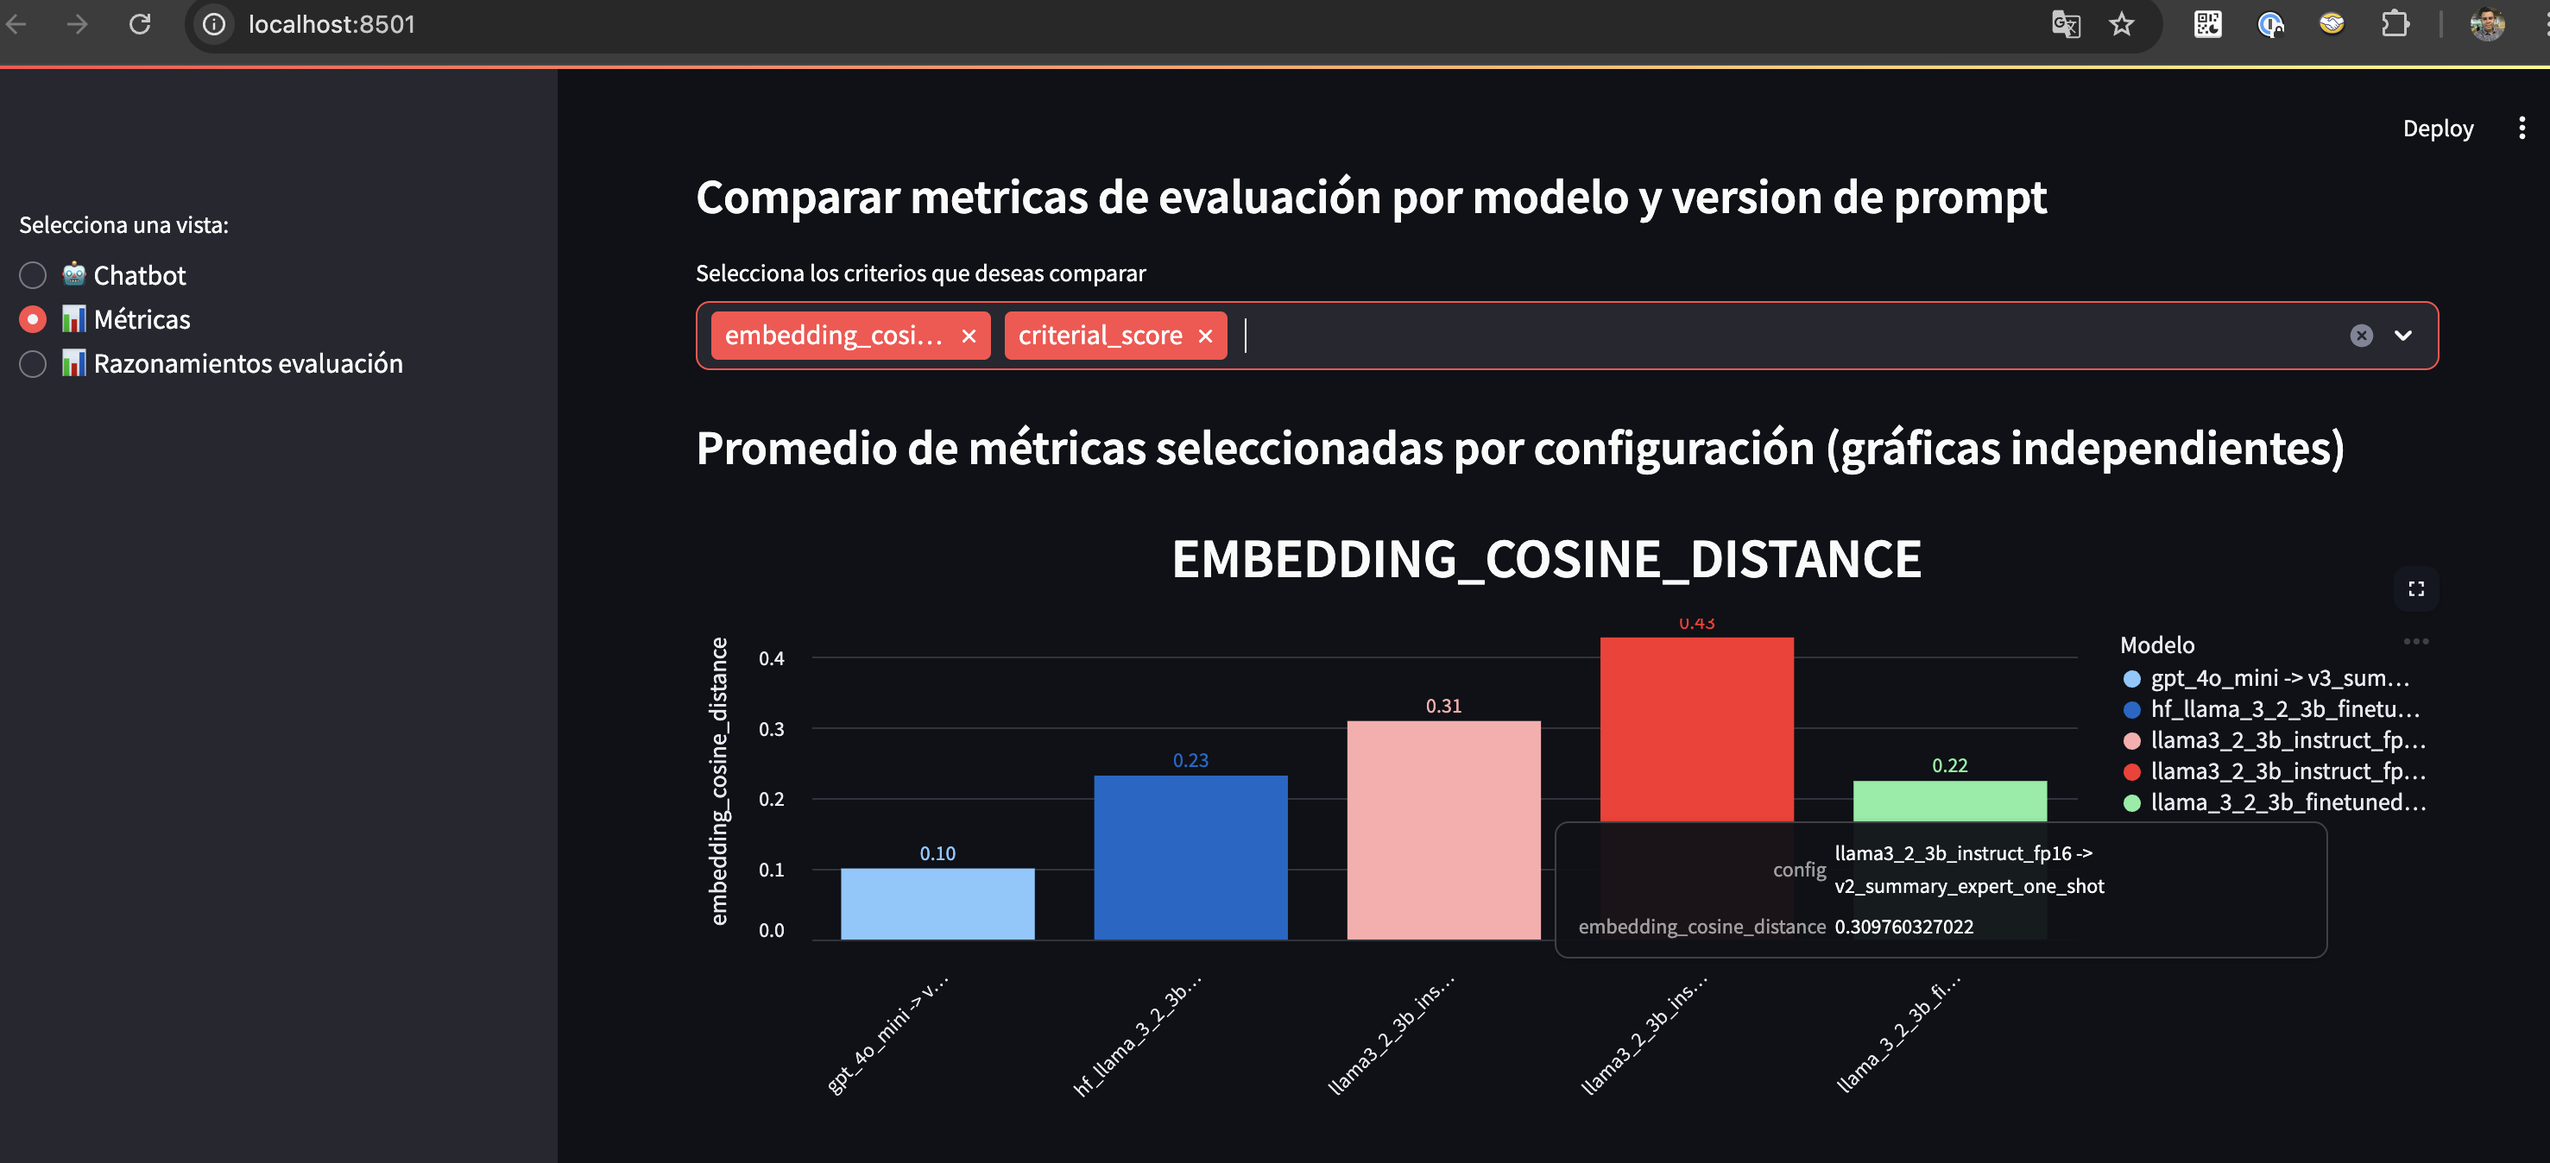
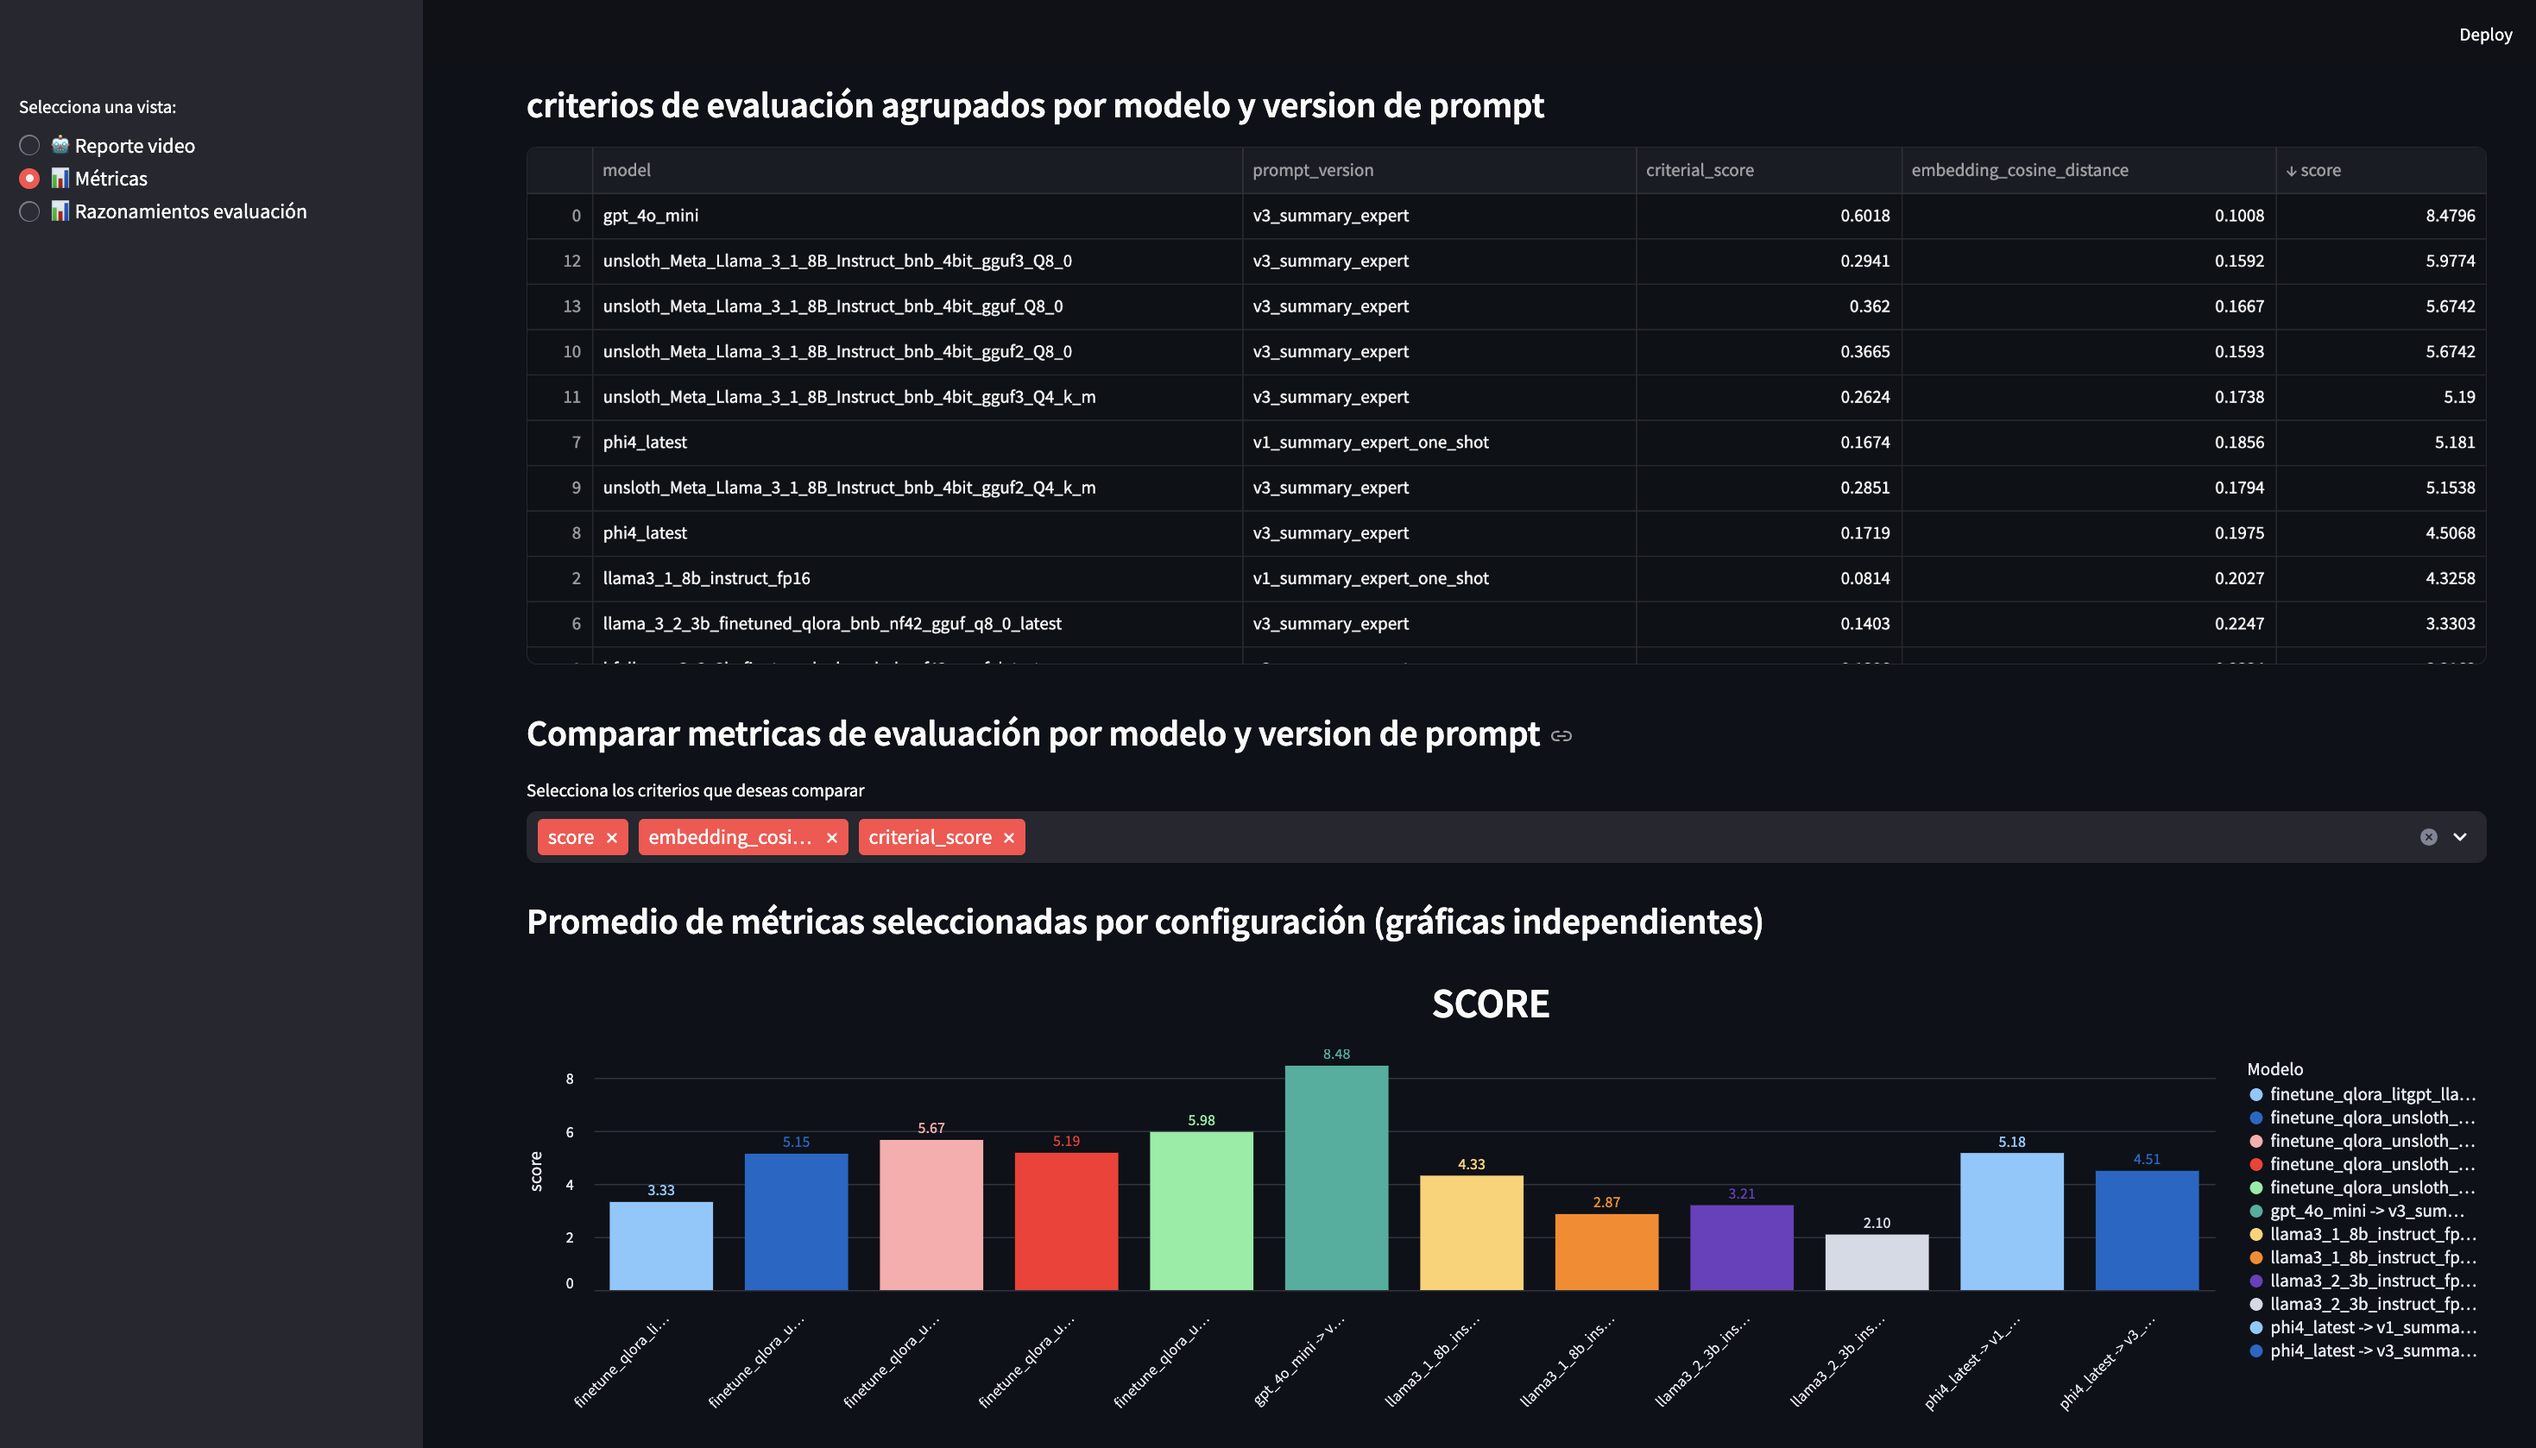
chore: update readme with deployment images

diff --git a/app/main_interface.py b/app/main_interface.py
@@ -145,11 +145,12 @@ if modo == '🤖 Reporte video':
             'phi4:latest',
             'hf.co/AndresR2909/unsloth_Meta-Llama-3.1-8B-Instruct-bnb-4bit_gguf:Q8_0',
             'hf.co/AndresR2909/llama-3.2-3b-finetuned_qlora_bnb_nf4_v2-gguf_q8_0:latest',
+            'hf.co/AndresR2909/unsloth_Meta-Llama-3.1-8B-Instruct-bnb-4bit_gguf_v3:Q8_0',
         ],
     )
     prompt = st.selectbox(
         'Selecciona la versión del prompt:',
-        ['v1_summary_expert', 'v1_summary_expert_one_shot'],
+        ['v3_summary_expert', 'v1_summary_expert_one_shot'],
     )
     # model = 'phi4:latest'
     # prompt = 'v1_summary_expert'
@@ -210,14 +211,40 @@ elif modo == '📊 Métricas':
         }
         data.append(dict_metrics)
 
+
     # Creamos un dataframe con todos los datos
     df = pd.DataFrame(data)
+    sel_models = [
+        'unsloth_Meta_Llama_3_1_8B_Instruct_bnb_4bit_gguf2_Q4_k_m',
+        'phi4_latest',
+        'unsloth_Meta_Llama_3_1_8B_Instruct_bnb_4bit_gguf3_Q4_k_m',
+        'unsloth_Meta_Llama_3_1_8B_Instruct_bnb_4bit_gguf3_Q8_0',
+        'unsloth_Meta_Llama_3_1_8B_Instruct_bnb_4bit_gguf2_Q8_0',
+        'llama3_1_8b_instruct_fp16',
+        'llama3_2_3b_instruct_fp16',
+        'gpt_4o_mini',
+        'llama_3_2_3b_finetuned_qlora_bnb_nf42_gguf_q8_0_latest',
+    ]
+
+    df_sel = df[df['model'].isin(sel_models)]
+
+    # Diccionario de reemplazo de nombres de modelos
+    model_name_map = {
+    'unsloth_Meta_Llama_3_1_8B_Instruct_bnb_4bit_gguf2_Q4_k_m':'finetune_qlora_unsloth_llama_3_1_8B_Instruct_bnb_4bit_v2_Q4_k_m',
+    'unsloth_Meta_Llama_3_1_8B_Instruct_bnb_4bit_gguf3_Q4_k_m':'finetune_qlora_unsloth_llama_3_1_8B_Instruct_bnb_4bit_v3_Q4_k_m',
+    'unsloth_Meta_Llama_3_1_8B_Instruct_bnb_4bit_gguf3_Q8_0':'finetune_qlora_unsloth_llama_3_1_8B_Instruct_bnb_4bit_v3_Q8_0',
+    'unsloth_Meta_Llama_3_1_8B_Instruct_bnb_4bit_gguf2_Q8_0':'finetune_qlora_unsloth_llama_3_1_8B_Instruct_bnb_4bit_v2_Q8_0',
+    'llama_3_2_3b_finetuned_qlora_bnb_nf42_gguf_q8_0_latest': 'finetune_qlora_litgpt_llama_3_2_3b_bnb_nf4_v2_q8_0',
+    }
+
+    # Reemplazar en la columna 'model' de df_sel
+    df_sel['model'] = df_sel['model'].replace(model_name_map)
 
     # Datos de test
     st.subheader('Dataset de test')
 
     df_grouped = (
-        df.drop(
+        df_sel.drop(
             columns=[
                 'criterial_score',
                 'embedding_cosine_distance',
@@ -272,7 +299,7 @@ elif modo == '📊 Métricas':
     if selected_metrics:
         # Agrupamos por Prompt y Chunk Size para mostrar promedios
         grouped = (
-            df.groupby(['model', 'prompt_version'])
+            df_sel.groupby(['model', 'prompt_version'])
             .agg({metric: 'mean' for metric in selected_metrics})
             .reset_index()
         )

diff --git a/Readme.md b/Readme.md
@@ -51,7 +51,7 @@ notebooks/
 requirements.txt
 Readme.md
 ...
-
+```
 ---
 
 ## Flujo de Trabajo
@@ -137,14 +137,13 @@ streamlit run app/main_interface.py
 
 ![dataset test](image-1.png)
 
-![metricas evaluacion](image-2.png)
+![metricas-evaluación](image-4.png)
 
-![Score](image-6.png)
+![metricas-evaluación](image-2.png)
 
-![grafica coseno](image-4.png)
+![evaluación online](image-5.png)
 
-![criterial score](image-5.png)
-
+![evaluación online](image-6.png)
 
 
 ---
